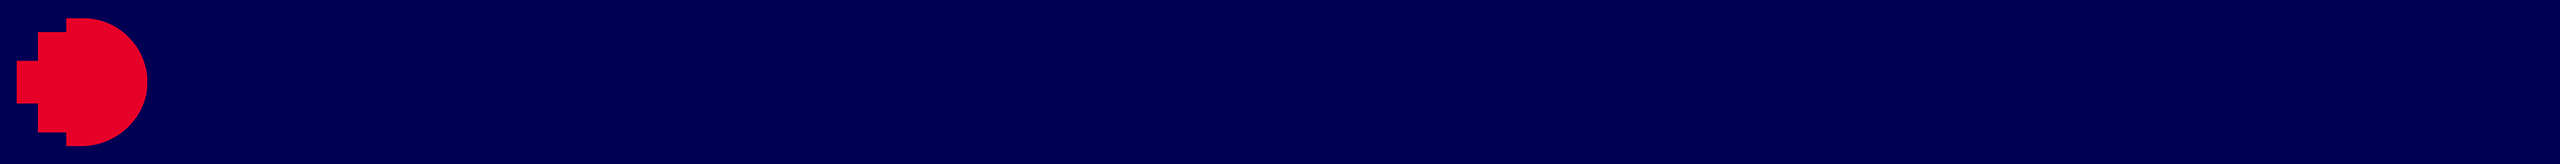
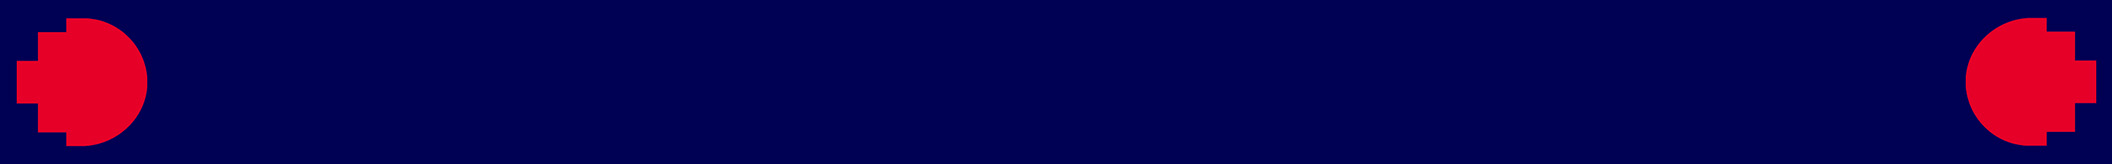
Format/Layout Change
added in gallery
personal information section
added in banner

Changed region(s): [[0.9062, 0.0915, 1.0, 0.8841], [0.0, 0.0915, 0.0938, 0.9146]]

diff --git a/index.html b/index.html
@@ -2,12 +2,13 @@
 <html>
 
 <head>
+
 <meta charset="UTF-8">
 <title>Assessment One</title>
 
 </head>
 
-<body>
+<body style="background-color: #000053;">
 
 	<header>
 	<div>
@@ -27,13 +28,87 @@
 	
 	</div>		
 	</header>
-		<h2> Personal Information </h2>
+		<h2 style="color: red;"> Personal Information </h2>
+		<div style="display:inline-block;vertical-align:top;">
 		<img src="Photos/ME.jpg" alt="ME">
-		<ul >
-			<li class="About-Me">Name</li>
-				<li>Cody Roberts</li>
+		</div>
+	<div class="About-Me" style="">
+	<br></br>
+	<b><p>
+	Name: Cody Roberts
+	</p>
+	<br>
+	</br>
+	<p>
+	Student Number: S3976990
+	</p>
+	<br>
+	</br>
+	<p>
+	Email: S3976990@student.rmit.edu.au
 
-		</ul>
+	
+	</p>
+	</b>
+	</div>
+	<div class="background-info">
+<p> I’m Australian through and through apparently a bit of Welsh somewhere along the line, I’ve completed a Diploma of Information Technology, CERT III IDMT & many others throughout high school. An interesting fact about me is that one of my hobbies is photography and I have a sheepdog x German Shepherd named Maverick... not after top gun</p>
+	</div>
 	</body>
-
+	
+	<div class="gallery">
+	<a target="-blank" href="Photos/Gallery1.jpg">
+		<img src="Photos/Gallery1.jpg" alt="1">
+		</a>
+	</div>
+	<div class="gallery">
+		<a target="-blank" href="Photos/Gallery2.jpg">
+		<img src="Photos/Gallery2.jpg" alt="2">
+		</a>
+	</div>
+	<div class="gallery">
+		<a target="-blank" href="Photos/Gallery3.jpg">
+		<img src="Photos/Gallery3.jpg" alt="3">
+		</a>
+	</div>
+	<div class="gallery">
+		<a target="-blank" href="Photos/Gallery4.jpg">
+		<img src="Photos/Gallery4.jpg" alt="4">
+		</a>
+	</div>
+	<div class="gallery">
+		<a target="-blank" href="Photos/Gallery5.jpg">
+		<img src="Photos/Gallery5.jpg" alt="5">
+		</a>
+	</div>
+	<div class="gallery">
+		<a target="-blank" href="Photos/Gallery6.jpg">
+		<img src="Photos/Gallery6.jpg" alt="6">
+		</a>
+	</div>
+	<div class="gallery">
+		<a target="-blank" href="Photos/Gallery7.jpg">
+		<img src="Photos/Gallery7.jpg" alt="7">
+		</a>
+	</div>
+	<div class="gallery">
+		<a target="-blank" href="Photos/Gallery8.jpg">
+		<img src="Photos/Gallery8.jpg" alt="8">
+		</a>
+	</div>
+	<div class="gallery">
+		<a target="-blank" href="Photos/Gallery9.jpg">
+		<img src="Photos/Gallery9.jpg" alt="9">
+		</a>
+	</div>
+	<div class="gallery">
+		<a target="-blank" href="Photos/Gallery10.jpg">
+		<img src="Photos/Gallery10.jpg" alt="10">
+		</a>
+	</div>
+	<div class="gallery">
+		<a target="-blank" href="Photos/Gallery11.jpg">
+		<img src="Photos/Gallery11.jpg" alt="11">
+		</a>
+	</div>
 </html>

diff --git a/style.css b/style.css
@@ -35,5 +35,26 @@ h2{
 }
 
 .About-Me{
-	text-decoration: none;
+	color: red;
+	text-decoration: bold;
+	display:inline-block;
+	justify-content: space-between;
+	padding-left: 5px;
+	
+}
+img {
+  border: 3px solid black;
+}
+.background-info {
+	color: red;
+	font-size: 20px;
+	margin: 0 auto;
+	display: table;
+	text-align: center;
+}
+
+.gallery{
+
+	float: left;
+	padding-left: 20px;
 }
